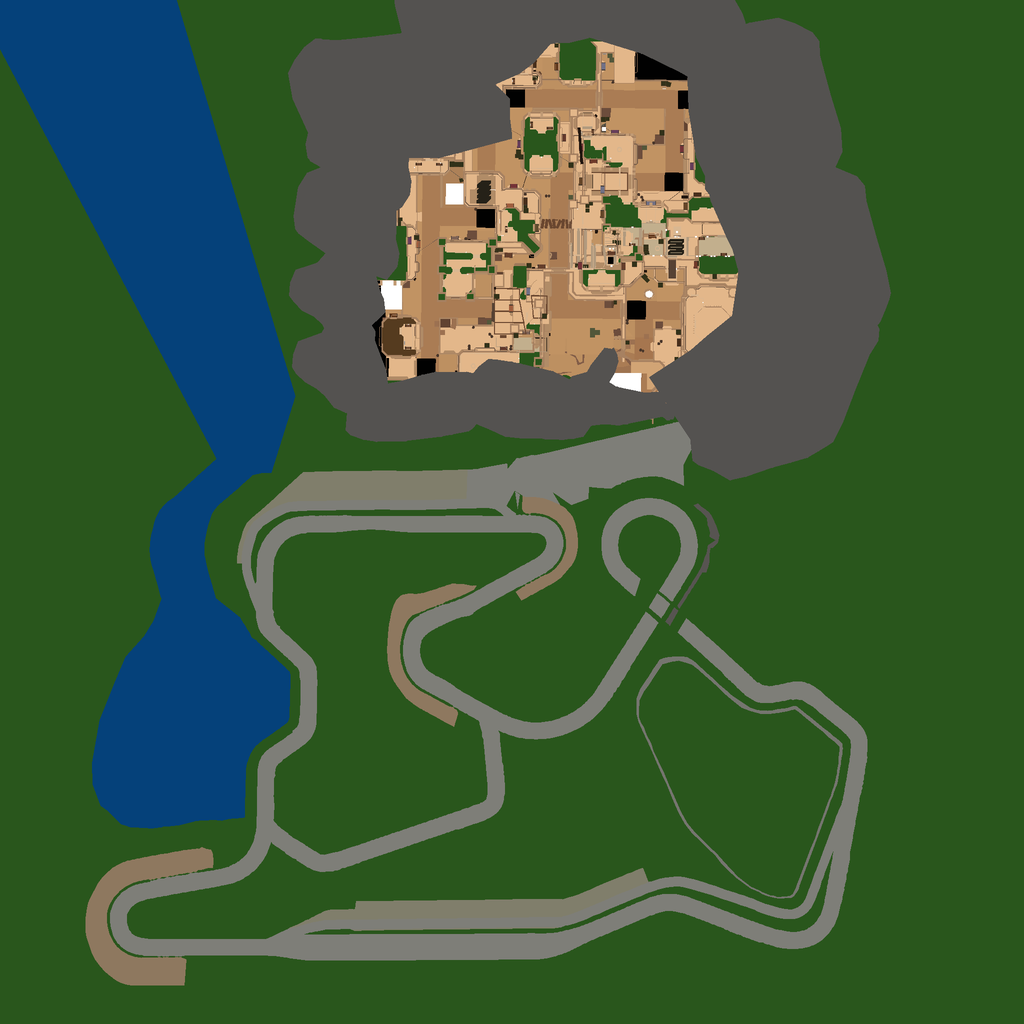
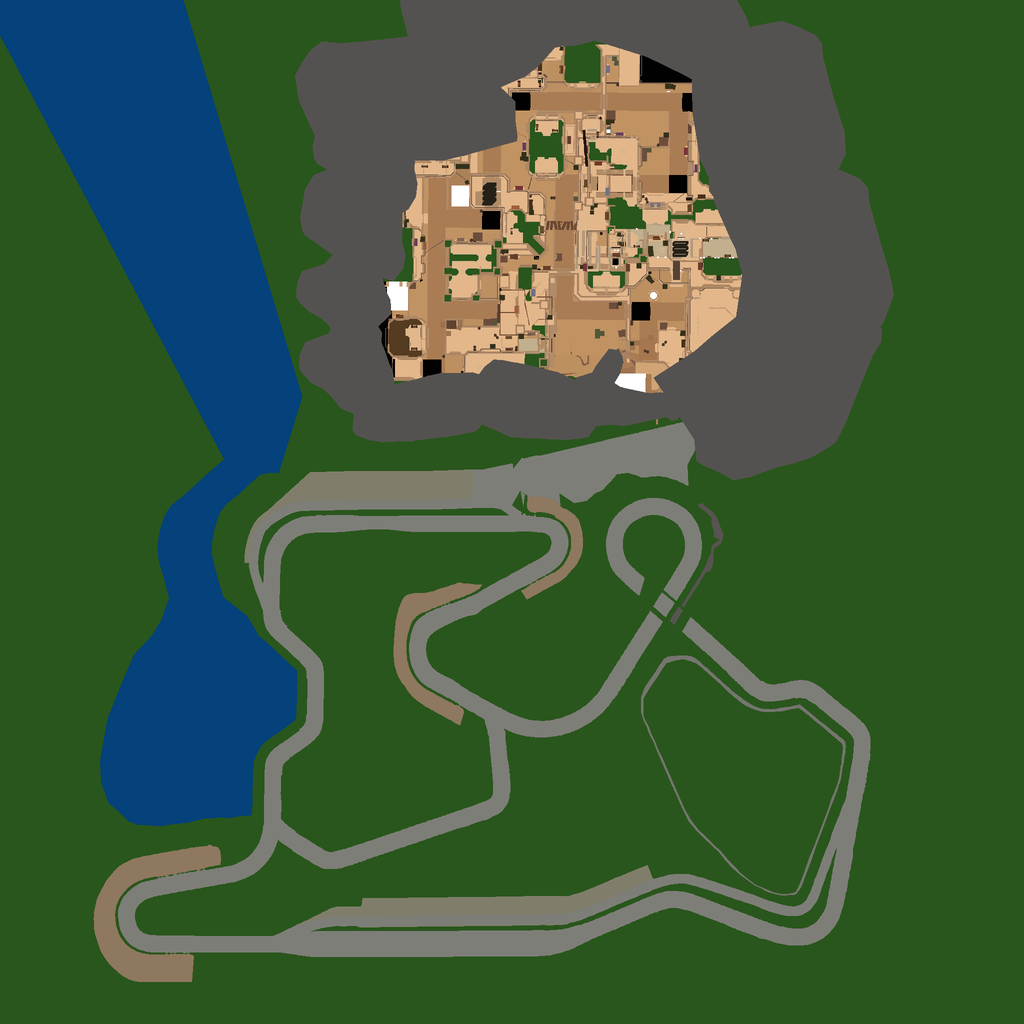
fix: minimapa con bounds EXACTOS (X[-537.9,277.9] Z[-204.6,611.2]) + 320px + boton playlist a la derecha

diff --git a/src/ui.tsx b/src/ui.tsx
@@ -72,12 +72,13 @@ const uiComponent = () => {
       {(() => {
         const pb = ps.inGame
         const img = pb ? 'images/paintball_minimap.png' : 'images/minimap.png'
-        // Ventanas world-XZ con las que se generaron las imágenes (make_*minimap.py).
-        const xmin = pb ? -170 : -466, xmax = pb ? 170 : 192
-        const zmin = pb ? 245 : -300, zmax = pb ? 585 : 358
+        // Ventanas world-XZ EXACTAS con las que se generaron las imágenes (impreso por
+        // make_*minimap.py). Track: X[-537.9,277.9] Z[-204.6,611.2]. Paintball: -170..170 / 245..585.
+        const xmin = pb ? -170 : -537.9, xmax = pb ? 170 : 277.9
+        const zmin = pb ? 245 : -204.6, zmax = pb ? 585 : 611.2
         const wx = RaceState.isOccupied ? RaceState.kartPositionX : (playerTransform ? playerTransform.position.x : xmin)
         const wz = RaceState.isOccupied ? RaceState.kartPositionZ : (playerTransform ? playerTransform.position.z : zmin)
-        const W = 240
+        const W = 320
         const dotX = Math.max(0, Math.min(W, ((wx - xmin) / (xmax - xmin)) * W))
         const dotY = Math.max(0, Math.min(W, ((zmax - wz) / (zmax - zmin)) * W)) // z alto = arriba
         const dotCol = pb ? Color4.create(0.2, 1, 0.4, 1) : Color4.create(1, 0.15, 0.1, 1)
@@ -318,14 +319,14 @@ const uiComponent = () => {
 
       {/* ══════════ ADMIN: REPRODUCTOR WINAMP (solo owner) — derecha, lejos del chat ══════════ */}
       {isOwner && (
-        <UiEntity uiTransform={{ positionType: 'absolute', position: { top: 130, left: 16 }, width: 150, height: 38, justifyContent: 'center', alignItems: 'center' }}
+        <UiEntity uiTransform={{ positionType: 'absolute', position: { top: 160, right: 20 }, width: 160, height: 38, justifyContent: 'center', alignItems: 'center' }}
           uiBackground={{ color: adminOpen ? Color4.create(0.2, 0.45, 0.35, 1) : Color4.create(0.15, 0.17, 0.26, 0.96) }}
           onMouseDown={() => { adminOpen = !adminOpen }}>
           <Label value={adminOpen ? '♪ PLAYLIST  ▼' : '♪ PLAYLIST  ►'} fontSize={13} color={Color4.create(0.45, 1, 0.65, 1)} />
         </UiEntity>
       )}
       {isOwner && adminOpen && (
-        <UiEntity uiTransform={{ positionType: 'absolute', position: { top: 172, left: 16 }, width: 300, height: 352, flexDirection: 'column', padding: 8 }}
+        <UiEntity uiTransform={{ positionType: 'absolute', position: { top: 202, right: 20 }, width: 300, height: 352, flexDirection: 'column', padding: 8 }}
           uiBackground={{ color: Color4.create(0.04, 0.05, 0.07, 0.97) }}>
           {/* Barra de título estilo Winamp */}
           <UiEntity uiTransform={{ width: '100%', height: 22, justifyContent: 'center', alignItems: 'center' }} uiBackground={{ color: Color4.create(0.13, 0.17, 0.32, 1) }}>
